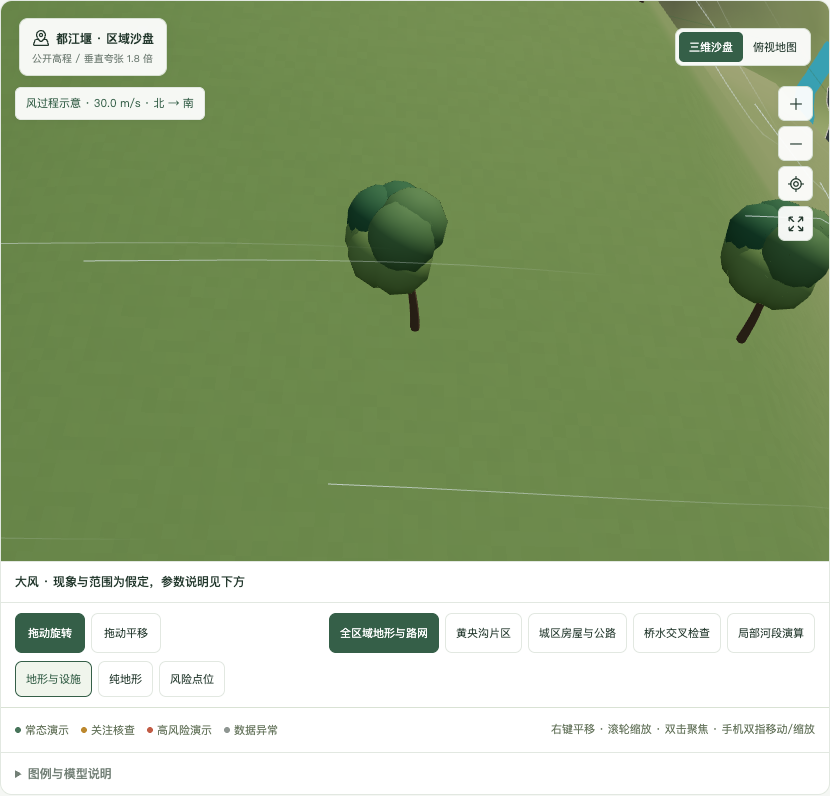
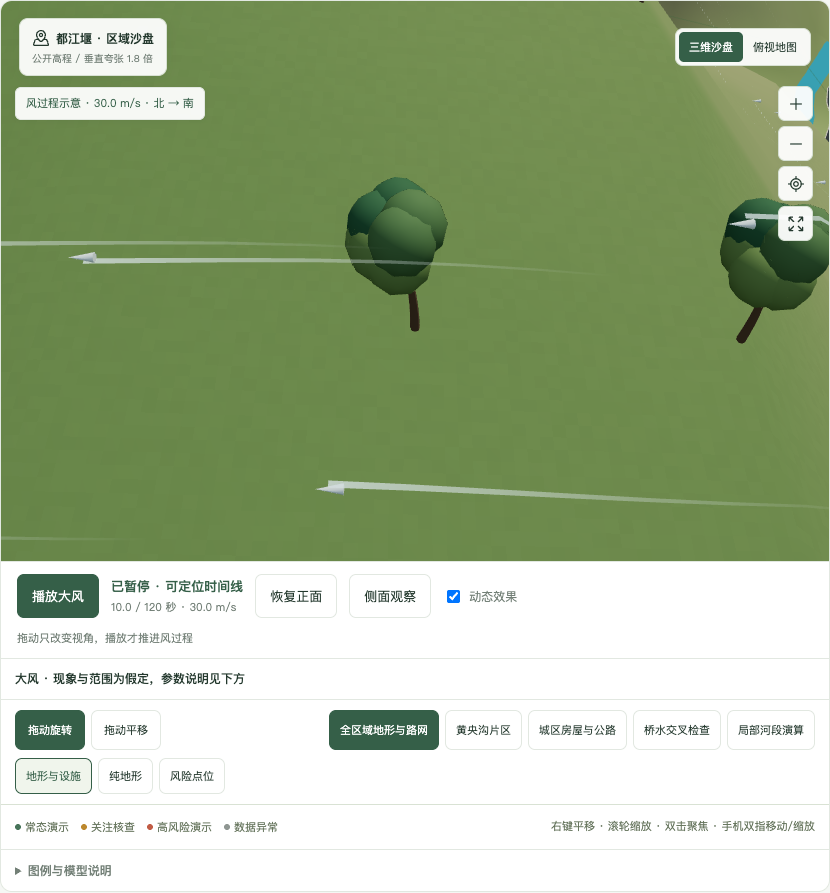
Make wind playback and motion visible from usable viewpoints

diff --git a/src/wind-layer.js b/src/wind-layer.js
@@ -4,7 +4,8 @@ import {flagVertex,treeResponse} from './wind-model.js';
 export function createWindLayer(scene,origin,height,canPlace=()=>true){
  const root=new THREE.Group();root.visible=false;scene.add(root);const flags=[],trees=[],occupied=[];
  const material=color=>new THREE.MeshStandardMaterial({color,roughness:.85,side:THREE.DoubleSide});
- const poleMaterial=material('#889b9a'),clothMaterial=material('#f2bd64'),trunkMaterial=material('#786452');clothMaterial.emissive.set('#f2bd64');clothMaterial.emissiveIntensity=.12;
+ const poleMaterial=material('#889b9a'),clothMaterial=material('#f2bd64'),trunkMaterial=material('#786452');clothMaterial.emissive.set('#f2bd64');clothMaterial.emissiveIntensity=.18;
+ const pixels=new Uint8Array(64*32*4);for(let y=0;y<32;y++)for(let x=0;x<64;x++){const i=(y*64+x)*4,seam=x%16===0||y%8===0,band=x>56;pixels[i]=seam?155:band?255:242;pixels[i+1]=seam?105:band?222:189;pixels[i+2]=seam?47:band?153:100;pixels[i+3]=255;}const clothTexture=new THREE.DataTexture(pixels,64,32);clothTexture.colorSpace=THREE.SRGBColorSpace;clothTexture.needsUpdate=true;clothMaterial.map=clothTexture;clothMaterial.color.set('#ffffff');
  const foliage=['#477456','#62865b','#7b985f'].map(material),crownGeometry=new THREE.IcosahedronGeometry(1,1);
  function site(x,z){for(let ring=0;ring<10;ring++)for(let k=0;k<(ring?12:1);k++){const a=k*Math.PI/6,px=x+ring*.008*Math.cos(a),pz=z+ring*.008*Math.sin(a);if(canPlace(px,pz)&&occupied.every(q=>Math.hypot(q.x-px,q.z-pz)>.013)){const q={x:px,z:pz,y:height(px,pz)};occupied.push(q);return q;}}return null;}
  for(let i=0;i<3;i++){
@@ -19,31 +20,33 @@ export function createWindLayer(scene,origin,height,canPlace=()=>true){
   for(let j=0;j<7;j++){const angle=j*2.399,base={x:Math.cos(angle)*.0013,z:Math.sin(angle)*.0013,y:h-.0018+(j%3)*.001};const leaf=new THREE.Mesh(crownGeometry,foliage[(i+j)%3]);leaf.position.set(base.x,base.y,base.z);leaf.scale.set(.0021,.0024,.0021);tree.add(leaf);crowns.push({leaf,base});}
   trees.push({q,tree,trunk,rest,crowns,h,index:i});
  }
- const count=48,segments=7,geometry=new THREE.BufferGeometry(),positions=new Float32Array(count*segments*6),alphas=new Float32Array(count*segments*2);geometry.setAttribute('position',new THREE.BufferAttribute(positions,3));geometry.setAttribute('opacity',new THREE.BufferAttribute(alphas,1));
- const trails=new THREE.LineSegments(geometry,new THREE.ShaderMaterial({transparent:true,depthWrite:false,uniforms:{tint:{value:new THREE.Color('#d2f0f2')}},vertexShader:'attribute float opacity;varying float alpha;void main(){alpha=opacity;gl_Position=projectionMatrix*modelViewMatrix*vec4(position,1.);}',fragmentShader:'varying float alpha;uniform vec3 tint;void main(){gl_FragColor=vec4(tint,alpha);\n#include <tonemapping_fragment>\n#include <colorspace_fragment>\n}'}));trails.frustumCulled=false;root.add(trails);
+ const count=48,segments=7,geometry=new THREE.BufferGeometry(),positions=new Float32Array(count*segments*18),alphas=new Float32Array(count*segments*6);geometry.setAttribute('position',new THREE.BufferAttribute(positions,3));geometry.setAttribute('opacity',new THREE.BufferAttribute(alphas,1));
+ const trails=new THREE.Mesh(geometry,new THREE.ShaderMaterial({transparent:true,depthWrite:false,side:THREE.DoubleSide,uniforms:{tint:{value:new THREE.Color('#d2f0f2')}},vertexShader:'attribute float opacity;varying float alpha;void main(){alpha=opacity;gl_Position=projectionMatrix*modelViewMatrix*vec4(position,1.);}',fragmentShader:'varying float alpha;uniform vec3 tint;void main(){gl_FragColor=vec4(tint,alpha);\n#include <tonemapping_fragment>\n#include <colorspace_fragment>\n}'}));trails.frustumCulled=false;root.add(trails);
+ const headGeometry=new THREE.ConeGeometry(.00025,.0012,6);headGeometry.rotateX(Math.PI/2);const heads=new THREE.InstancedMesh(headGeometry,material('#e6faff'),count);heads.frustumCulled=false;root.add(heads);const headPose=new THREE.Object3D();
  const span=.18,windSites=occupied.length?occupied:[{...origin,y:height(origin.x,origin.z)}],xs=windSites.map(q=>q.x),zs=windSites.map(q=>q.z),ys=windSites.map(q=>q.y+.012);
  const center={x:(Math.min(...xs)+Math.max(...xs))/2,z:(Math.min(...zs)+Math.max(...zs))/2,y:(Math.min(...ys)+Math.max(...ys))/2};const radius=Math.max(.065,Math.hypot(Math.max(...xs)-Math.min(...xs),Math.max(...ys)-Math.min(...ys),Math.max(...zs)-Math.min(...zs))/2+.018);
  let lastMetrics=null;
  function update(frame,unknown=false,camera=null,viewport=null){
   root.visible=true;const {vector:d}=frame,side={x:-d.z,z:d.x};let flagDelta=0,treeBend=0,pinnedError=0;
   for(const {q,cloth,index} of flags){const p=cloth.geometry.attributes.position,uv=cloth.geometry.attributes.uv;for(let j=0;j<p.count;j++){const u=uv.getX(j),v=1-uv.getY(j),r=flagVertex(u,v,index,frame);p.setXYZ(j,q.x+d.x*r.along+side.x*r.side,q.y+.0096+r.y,q.z+d.z*r.along+side.z*r.side);if(u===0)pinnedError=Math.max(pinnedError,Math.hypot(p.getX(j)-q.x,p.getZ(j)-q.z)*1000);if(u===1)flagDelta=Math.max(flagDelta,Math.hypot(r.along,r.side)*1000);}p.needsUpdate=true;cloth.geometry.computeVertexNormals();cloth.geometry.computeBoundingSphere();cloth.geometry.computeBoundingBox();}
-  for(const item of trees){const r=treeResponse(item.index,frame),p=item.trunk.geometry.attributes.position;treeBend=Math.max(treeBend,r.bend);for(let j=0;j<p.count;j++){const y=item.rest[j*3+1],amount=r.bend*item.h*(y/item.h)**2;p.setXYZ(j,item.rest[j*3]+d.x*amount,y,item.rest[j*3+2]+d.z*amount);}p.needsUpdate=true;item.trunk.geometry.computeVertexNormals();item.trunk.geometry.computeBoundingBox();item.trunk.geometry.computeBoundingSphere();for(const {leaf,base} of item.crowns){const amount=r.bend*item.h*(base.y/item.h)**2;leaf.position.set(base.x+d.x*amount,base.y,base.z+d.z*amount);leaf.rotation.set(d.z*r.bend,0,-d.x*r.bend+r.flutter);}}
+  for(const item of trees){const r=treeResponse(item.index,frame),p=item.trunk.geometry.attributes.position;treeBend=Math.max(treeBend,r.bend);for(let j=0;j<p.count;j++){const y=item.rest[j*3+1],amount=r.bend*item.h*(y/item.h)**2;p.setXYZ(j,item.rest[j*3]+d.x*amount,y,item.rest[j*3+2]+d.z*amount);}p.needsUpdate=true;item.trunk.geometry.computeVertexNormals();item.trunk.geometry.computeBoundingBox();item.trunk.geometry.computeBoundingSphere();for(const [j,{leaf,base}] of item.crowns.entries()){const flutter=frame.strength*.0004*Math.sin(frame.phase*.8+j*1.4+item.index);const amount=r.bend*item.h*(base.y/item.h)**2;leaf.position.set(base.x+d.x*amount+side.x*flutter,base.y+flutter*.35,base.z+d.z*amount+side.z*flutter);leaf.rotation.set(d.z*r.bend,0,-d.x*r.bend+r.flutter);}}
   const visibleCount=frame.active?Math.round(12+36*frame.strength):0,length=.008+frame.strength*.025;let v=0,a=0;
   for(let i=0;i<visibleCount;i++){
     const phase=(i*.61803398875%1)*span,along=((phase+frame.distance/1000)%span+span)%span-span/2,cross=Math.sin(i*12.9898)*.067,fade=Math.min(1,(span/2-Math.abs(along))/.015),altitude=.004+(i%5)*.003;
-    for(let k=0;k<segments;k++)for(const tail of [k,k+1]){const t=tail/segments,forward=along-(1-t)*length,x=center.x+d.x*forward+side.x*cross,z=center.z+d.z*forward+side.z*cross;positions[v++]=x;positions[v++]=height(x,z)+altitude+.0008*Math.sin(t*Math.PI+i);positions[v++]=z;alphas[a++]=fade*t*(.35+.55*frame.strength);}
+    for(let k=0;k<segments;k++)for(const [tail,edge] of [[k,-1],[k+1,-1],[k+1,1],[k,-1],[k+1,1],[k,1]]){const t=tail/segments,forward=along-(1-t)*length,width=(.00008+.00012*frame.strength)*(.3+.7*t),x=center.x+d.x*forward+side.x*(cross+edge*width),z=center.z+d.z*forward+side.z*(cross+edge*width);positions[v++]=x;positions[v++]=height(x,z)+altitude+.0008*Math.sin(t*Math.PI+i);positions[v++]=z;alphas[a++]=fade*t*(.4+.5*frame.strength);}
+    const hx=center.x+d.x*along+side.x*cross,hz=center.z+d.z*along+side.z*cross;headPose.position.set(hx,height(hx,hz)+altitude,hz);headPose.rotation.set(0,Math.atan2(d.x,d.z),0);headPose.scale.setScalar(.65+frame.strength*.65);headPose.updateMatrix();heads.setMatrixAt(i,headPose.matrix);
   }
   const treeTips=trees.map(item=>{let j=0;for(let k=1;k<item.rest.length/3;k++)if(item.rest[k*3+1]>item.rest[j*3+1])j=k;const p=item.trunk.geometry.attributes.position;return {x:(p.getX(j)-item.rest[j*3])*1000,z:(p.getZ(j)-item.rest[j*3+2])*1000};});
   const flagDirections=flags.map(({q,cloth})=>{const p=cloth.geometry.attributes.position,uv=cloth.geometry.attributes.uv;let x=0,z=0,n=0;for(let j=0;j<p.count;j++)if(uv.getX(j)===1){x+=p.getX(j)-q.x;z+=p.getZ(j)-q.z;n++;}return {x:x/n*1000,z:z/n*1000};});
-  geometry.setDrawRange(0,visibleCount*segments*2);geometry.attributes.position.needsUpdate=true;geometry.attributes.opacity.needsUpdate=true;
+  geometry.setDrawRange(0,visibleCount*segments*6);heads.count=visibleCount;heads.instanceMatrix.needsUpdate=true;geometry.attributes.position.needsUpdate=true;geometry.attributes.opacity.needsUpdate=true;
   const signature=JSON.stringify([frame.time,frame.speed,frame.direction,frame.distance]);
-  lastMetrics={visible:true,unknown,time:frame.time,speed:frame.speed,base:frame.base,peak:frame.peak,direction:frame.direction,vector:frame.vector,from:frame.from,toward:frame.toward,distanceMeters:frame.distance,trailCount:visibleCount,flagCount:flags.length,treeCount:trees.length,flagStretchMeters:flagDelta,treeBendRadians:treeBend,roots:trees.map(q=>q.tree.position.toArray()),treeTipsMeters:treeTips,flagDirectionsMeters:flagDirections,flagPinnedErrorMeters:pinnedError,rootsFixed:true,flagEdgesPinned:pinnedError<.003,ended:frame.ended,signature};
+  lastMetrics={visible:true,unknown,time:frame.time,speed:frame.speed,base:frame.base,peak:frame.peak,direction:frame.direction,vector:frame.vector,from:frame.from,toward:frame.toward,distanceMeters:frame.distance,trailCount:visibleCount,flagCount:flags.length,treeCount:trees.length,flagStretchMeters:flagDelta,treeBendRadians:treeBend,roots:trees.map(q=>q.tree.position.toArray()),treeTipsMeters:treeTips,flagDirectionsMeters:flagDirections,flagPinnedErrorMeters:pinnedError,rootsFixed:true,flagEdgesPinned:pinnedError<.003,ended:frame.ended,signature,flagVertices:Array.from(flags[1]?.cloth.geometry.attributes.position.array??[]),treeCrownPositions:trees.flatMap(item=>item.crowns.map(c=>c.leaf.position.toArray())),trailVertices:Array.from(positions.slice(0,Math.min(v,126)))};
   if(camera&&viewport){
-    root.updateMatrixWorld(true);
+    root.updateMatrixWorld(true);const look=camera.position.clone().sub(new THREE.Vector3(flags[1].q.x,flags[1].q.y+.008,flags[1].q.z)).normalize();lastMetrics.flagFaceAlignment=Math.abs(look.x*side.x+look.z*side.z);
     const framing=object=>{const box=new THREE.Box3().setFromObject(object),projected=[];for(const x of [box.min.x,box.max.x])for(const y of [box.min.y,box.max.y])for(const z of [box.min.z,box.max.z])projected.push(new THREE.Vector3(x,y,z).project(camera));return {widthPixels:(Math.max(...projected.map(p=>p.x))-Math.min(...projected.map(p=>p.x)))*viewport.clientWidth/2,heightPixels:(Math.max(...projected.map(p=>p.y))-Math.min(...projected.map(p=>p.y)))*viewport.clientHeight/2,inFrame:projected.every(p=>Math.abs(p.x)<.97&&Math.abs(p.y)<.97&&p.z<1&&p.z>-1)};};
     lastMetrics.flagFraming=flags.map(q=>framing(q.cloth));lastMetrics.treeFraming=trees.map(q=>framing(q.tree));
   }
   window.__windVisual=lastMetrics;return lastMetrics;
  }
- return {bounds:{center,radius,flag:flags[1]?{center:{...flags[1].q,y:flags[1].q.y+.0077},radius:.012}:null,tree:trees[2]?{center:{...trees[2].q,y:trees[2].q.y+.006},radius:.015}:null},update,hide(){root.visible=false;window.__windVisual={visible:false};},dispose(){scene.remove(root);const geometries=new Set(),materials=new Set();root.traverse(o=>{if(o.geometry)geometries.add(o.geometry);for(const m of Array.isArray(o.material)?o.material:[o.material])if(m)materials.add(m);});geometries.forEach(g=>g.dispose());materials.forEach(m=>m.dispose());}};
+ return {bounds:{center,radius,flag:flags[1]?{center:{...flags[1].q,y:flags[1].q.y+.0077},radius:.008}:null,tree:trees[2]?{center:{...trees[2].q,y:trees[2].q.y+.006},radius:.015}:null},update,hide(){root.visible=false;window.__windVisual={visible:false};},dispose(){scene.remove(root);const geometries=new Set(),materials=new Set();root.traverse(o=>{if(o.geometry)geometries.add(o.geometry);for(const m of Array.isArray(o.material)?o.material:[o.material])if(m)materials.add(m);});clothTexture.dispose();geometries.forEach(g=>g.dispose());materials.forEach(m=>m.dispose());}};
 }

diff --git a/src/main.js b/src/main.js
@@ -36,7 +36,7 @@ function render(){for(const h of hazards)assess(state,h.id);const h=selected(),s
  const status=$('#status');status.className=`status-box ${s.unknown?'fault':level===1?'warning':level===2?'danger':''}`;status.innerHTML=`<div class="status-name">${icon(s.unknown?'Unplug':level===0?'CircleCheck':level===1?'TriangleAlert':'ShieldAlert')}${s.unknown?'监测异常 · 需核查':levels[level].name}</div><p>${s.unknown?'模拟数据中断、缺失或过期，当前风险状态未知。修复并核查后恢复。':level===0?'当前演示数值未触发提醒，不代表现实场地安全。':s.action}</p>`;
  $('#slider-title').textContent=h.metric;$('#slider-value').innerHTML=`${formatValue(h,s.value)}<small>${h.unit}</small>`;const slider=$('#value-slider');slider.min=h.min;slider.max=h.max;slider.step=h.step;slider.value=s.value;slider.disabled=s.fault;$('#range-min').textContent=`${h.min} ${h.unit}`;$('#range-max').textContent=`${h.max} ${h.unit}`;
  $('#secondary-title').textContent=h.secondary;$('#secondary-value').innerHTML=`${s.secondary}<small>${h.secondUnit}</small>`;$('#secondary-slider').step=h.id==='water'?.1:1;$('#secondary-slider').max=h.id==='water'?5:100;$('#secondary-slider').value=s.secondary;$('#secondary-slider').disabled=s.fault;$('#secondary-slider').parentElement.querySelector('.range-label').lastElementChild.textContent=h.id==='water'?'5':'100';$('#hazard-note').textContent=h.note;
- $('#fault').classList.toggle('on',s.fault);$('#fault').setAttribute('aria-checked',String(s.fault));$('#play').innerHTML=`${icon(state.running?'Pause':'Play')}<span>${state.running?'暂停模拟':'开始模拟'}</span>`;$('#speed').value=state.speed;
+ $('#play').disabled=false;$('#fault').classList.toggle('on',s.fault);$('#fault').setAttribute('aria-checked',String(s.fault));$('#play').innerHTML=`${icon(state.running?'Pause':'Play')}<span>${state.running?'暂停模拟':'开始模拟'}</span>`;$('#speed').value=state.speed;
  $('#event-count').textContent=`${state.events.length} 条`;$('#events').innerHTML=state.events.length?state.events.slice(0,12).map(e=>`<div class="event"><time>${fmtTime(e.time)}</time><div>${e.text}</div></div>`).join(''):'<div class="empty">尚无状态变化。<br>调整参数或选择情景，观察变化记录。</div>';
  $('.map-note').innerHTML=['ice','wind','heat','forest','landslide','debris'].includes(h.id)?'地形高程 ×1.8 · 现象与范围为假定<br>冰雪附着于公开道路；桥面与净空未实测<br>运动示意独立于监测读数<br>详见下方变量与现象说明':'地形与建筑高度 ×1.8 · 树群为装饰<br>窗格 / 路缘 / 标线为示意；水系贴地，非计算水位<br>色圈为风险提示，非淹没边界';
  $('#view3d').classList.toggle('active',state.mode==='3d');$('#view2d').classList.toggle('active',state.mode==='2d');$('#view3d').setAttribute('aria-pressed',String(state.mode==='3d'));$('#view2d').setAttribute('aria-pressed',String(state.mode==='2d'));updateMapNavigationUI();controlPanel?.render();waterView?.refresh();hydraulicView?.refresh();lightningView?.refresh();hazardEffects?.refresh();createIcons({icons,attrs:{class:'icon'}});renderChart(h,s);save();window.__monitor={state,select:selectHazard,updateValue:(id,v)=>{updateValue(state,id,v);render()},ready:!!scene};}
@@ -44,13 +44,13 @@ function formatValue(h,v){return h.step<1?v.toFixed(1):Math.round(v)}
 function renderChart(h,s){const svg=$('#chart'),width=700,height=145,left=44,right=12,top=10,bottom=25;svg.setAttribute('viewBox',`0 0 ${width} ${height}`);const pts=s.history.length>1?s.history:[...s.history,{t:state.seconds+1,v:s.value}];const minTime=pts[0].t,maxTime=Math.max(minTime+1,pts.at(-1).t);const px=t=>left+(t-minTime)/(maxTime-minTime)*(width-left-right),py=v=>top+(h.max-v)/(h.max-h.min)*(height-top-bottom);const sameTime=pts.at(-1).t===minTime;const pointX=(p,i)=>sameTime?left+i/(pts.length-1)*(width-left-right):px(p.t);const points=pts.map((p,i)=>`${pointX(p,i).toFixed(1)},${py(p.v).toFixed(1)}`).join(' ');const path=`M${points.replaceAll(' ',' L')}`,area=`${path} L${pointX(pts.at(-1),pts.length-1)},${height-bottom} L${left},${height-bottom}Z`;
  let grid='';for(let i=0;i<4;i++){const v=h.min+(h.max-h.min)*i/3,y=py(v);grid+=`<line x1="${left}" x2="${width-right}" y1="${y}" y2="${y}" stroke="#e8ece5"/><text x="${left-9}" y="${y+4}" fill="#7a8576" font-size="10" text-anchor="end">${Math.round(v)}</text>`;}
  const wy=py(s.policy.warning);svg.innerHTML=`<defs><linearGradient id="chart-fill" x1="0" y1="0" x2="0" y2="1"><stop stop-color="${h.color}" stop-opacity=".22"/><stop offset="1" stop-color="${h.color}" stop-opacity=".01"/></linearGradient></defs>${grid}<line x1="${left}" x2="${width-right}" y1="${wy}" y2="${wy}" stroke="#c5994a" stroke-dasharray="4 5" opacity=".7"/><text x="${width-right}" y="${wy-5}" text-anchor="end" fill="#ac873e" font-size="9">演示关注阈值</text><path d="${area}" fill="url(#chart-fill)"/><path d="${path}" fill="none" stroke="${s.unknown?'#909891':h.color}" stroke-width="2.2" stroke-linejoin="round"/><circle cx="${pointX(pts.at(-1),pts.length-1)}" cy="${py(pts.at(-1).v)}" r="3.5" fill="${h.color}" stroke="white" stroke-width="2"/><text x="${left}" y="${height-4}" fill="#7a8576" font-size="10">${fmtTime(minTime)}</text><text x="${width-right}" y="${height-4}" fill="#7a8576" text-anchor="end" font-size="10">${fmtTime(maxTime)}</text>`;$('#chart-title').textContent=`${h.name} · ${h.metric}趋势`;$('#chart-tip').textContent=s.unknown?'数据未知；曲线保留最近有效模拟样本':`最新 ${formatValue(h,s.value)} ${h.unit}（模拟）`;}
-function selectHazard(id){if(id==='water'&&hydraulicView&&!new URLSearchParams(location.search).has('street'))hydraulicView.activate();if(id!=='water'&&hydraulicView?.active)hydraulicView.deactivate();if(!hazards.some(h=>h.id===id))return;state.selected=id;if(id==='lightning'){state.running=false;state.mode='3d';scene?.setMode('3d');scene?.focusLightning?.(state.lightningSession?.config.region??'龙池山地',state.lightningSession?.config.distance??1.2);}if(['ice','wind','heat','forest','landslide','debris'].includes(id)){scene?.focusEffect?.(id);}const h=selected();if(selectedZone!=='全部区域'&&selectedZone!==h.zone){selectedZone='全部区域';document.querySelectorAll('[data-zone]').forEach(b=>b.classList.toggle('active',b.dataset.zone===selectedZone));}render();}
+function selectHazard(id){if(id==='water'&&hydraulicView&&!new URLSearchParams(location.search).has('street'))hydraulicView.activate();if(id!=='water'&&hydraulicView?.active)hydraulicView.deactivate();if(!hazards.some(h=>h.id===id))return;state.selected=id;if(id==='wind')state.running=false;if(id==='lightning'){state.running=false;state.mode='3d';scene?.setMode('3d');scene?.focusLightning?.(state.lightningSession?.config.region??'龙池山地',state.lightningSession?.config.distance??1.2);}if(['ice','wind','heat','forest','landslide','debris'].includes(id)){scene?.focusEffect?.(id);}const h=selected();if(selectedZone!=='全部区域'&&selectedZone!==h.zone){selectedZone='全部区域';document.querySelectorAll('[data-zone]').forEach(b=>b.classList.toggle('active',b.dataset.zone===selectedZone));}render();}
 function toast(text){$('#toast').textContent=text;clearTimeout(toastTimer);toastTimer=setTimeout(()=>$('#toast').textContent='',3500)}
 $('#risklist').addEventListener('click',e=>{const b=e.target.closest('[data-hazard]');if(b)selectHazard(b.dataset.hazard)});
 document.querySelectorAll('[data-zone]').forEach(button=>button.onclick=()=>{selectedZone=button.dataset.zone;document.querySelectorAll('[data-zone]').forEach(b=>b.classList.toggle('active',b===button));if(selectedZone!=='全部区域'&&selected().zone!==selectedZone)state.selected=hazards.find(h=>h.zone===selectedZone).id;render();});
 $('#value-slider').oninput=e=>{updateValue(state,state.selected,+e.target.value);render()};$('#secondary-slider').oninput=e=>{updateNode(state,state.selected,'secondary',+e.target.value);render()};
 document.querySelectorAll('[data-preset]').forEach(button=>button.onclick=()=>{applyPreset(state,state.selected,+button.dataset.preset);render();toast('已应用所选项的演示情景；其他主参数保持不变')});
-$('#play').onclick=()=>{if(state.controlMode==='scenario'&&!state.scenario){toast('请先生成情景');return}if(state.scenario&&state.controlMode==='scenario'&&state.seconds>=state.scenario.duration){toast('已到终点，请回到起点重播');return}state.running=!state.running;render()};$('#speed').onchange=e=>{state.speed=+e.target.value;save()};
+$('#play').onclick=()=>{if(state.selected==='wind'){document.querySelector('#effect-play')?.click();return;}if(state.controlMode==='scenario'&&!state.scenario){toast('请先生成情景');return}if(state.scenario&&state.controlMode==='scenario'&&state.seconds>=state.scenario.duration){toast('已到终点，请回到起点重播');return}state.running=!state.running;render()};$('#speed').onchange=e=>{state.speed=+e.target.value;save()};
 $('#fault').onclick=()=>{updateNode(state,state.selected,'fault',!state.states[state.selected].fault);render()};
 $('#reset').onclick=()=>{state=createState();selectedZone='全部区域';document.querySelectorAll('[data-zone]').forEach(b=>b.classList.toggle('active',b.dataset.zone===selectedZone));scene?.reset();scene?.layer('terrain');document.querySelectorAll('[data-layer]').forEach(b=>b.classList.toggle('active',b.dataset.layer==='terrain'));render();toast('全部模拟已重置')};
 function updateMapNavigationUI(){

diff --git a/src/hazard-effects-view.js b/src/hazard-effects-view.js
@@ -23,6 +23,9 @@ export function mountHazardEffects(getState,getScene,render,toast) {
     <label class="effect-seek-label">效果时间线 · 独立于监测轨迹<input id="effect-seek" type="range" min="0" max="30" step=".1" value="0"></label>
     <p class="effect-validity" id="effect-validity" role="status"></p><p class="control-hint" id="effect-terrain-result"></p><p class="effects-boundary" id="effect-boundary"></p>`;
   document.querySelector('.map-panel').after(panel);const $=q=>panel.querySelector(q);
+  const transport=document.createElement('div');transport.className='wind-map-transport';transport.hidden=true;
+  transport.innerHTML='<button class="btn primary" id="wind-map-play">播放大风</button><div><b id="wind-map-status"></b><small id="wind-map-time"></small></div><button class="btn" data-wind-camera="front">恢复正面</button><button class="btn" data-wind-camera="side">侧面观察</button><label><input type="checkbox" id="wind-map-motion"> 动态效果</label><small id="wind-camera-hint">拖动只改变视角，播放才推进风过程</small>';
+  document.querySelector('#canvas').after(transport);
   let current=null,disposed=false,previous=performance.now(),paint=-1,identity;
   function setup(id) {
     const s=getState();s.effectSettings??={};s.effectPlayback??={};s.effectLastValid??={};
@@ -41,6 +44,9 @@ export function mountHazardEffects(getState,getScene,render,toast) {
   }
   function locate(){const s=getState();s.mode='3d';getScene()?.setMode('3d');getScene()?.focusEffect?.(s.selected);document.querySelector('.map-panel').scrollIntoView({block:'center',behavior:reduced?'auto':'smooth'});render();}
   $('#effect-focus').onclick=locate;
+  transport.querySelector('#wind-map-play').onclick=()=>$('#effect-play').click();
+  transport.querySelector('#wind-map-motion').onchange=e=>{const {c,p}=setup('wind');c.motion=e.target.checked;if(!c.motion)p.running=false;render();};
+  for(const el of transport.querySelectorAll('[data-wind-camera]'))el.onclick=()=>{setup('wind').c.view='flag';getScene()?.focusWindDetail?.('flag',el.dataset.windCamera);render();};
   $('#effect-play').onclick=()=>{
     const id=getState().selected,{n,c,p}=setup(id);if(n.unknown)return;
     if(p.running){p.running=false;render();return;}
@@ -84,7 +90,7 @@ export function mountHazardEffects(getState,getScene,render,toast) {
     $('#effect-readings').innerHTML=snap.notes.map((t,i)=>`<div><span>${['环境与监测','条件与现场','画面解释'][i]}</span><b>${t}</b></div>`).join('');
     $('#effect-legend').innerHTML=snap.legend.map(t=>`<span>${t}</span>`).join('');
     for(const f of effectFields[id]){const el=$('#effect-'+f.key);if(document.activeElement!==el)el.value=c[f.key];el.disabled=n.unknown;}
-    $('#wind-controls').hidden=id!=='wind';
+    $('#wind-controls').hidden=id!=='wind';transport.hidden=id!=='wind';
     if(id==='wind'){
       for(const [kind,value] of [['speed',n.value],['duration',n.secondary],['direction',n.extra.direction]])for(const suffix of ['', '-number']){const el=$('#wind-'+kind+suffix);if(document.activeElement!==el)el.value=value;el.disabled=n.unknown;}
       panel.querySelectorAll('[data-wind-view]').forEach(el=>{const active=el.dataset.windView===c.view;el.classList.toggle('active',active);el.setAttribute('aria-pressed',String(active));});
@@ -92,19 +98,26 @@ export function mountHazardEffects(getState,getScene,render,toast) {
       panel.querySelectorAll('[data-wind-duration],[data-wind-direction]').forEach(el=>el.disabled=n.unknown);
       $('#wind-direction-reading').textContent=`设定来向 ${n.extra.direction}°；当前来自${snap.wind?.from??'—'}方，吹向${snap.wind?.toward??'—'}方`;
       $('#wind-current-speed').textContent=snap.unavailable?'未知':`${snap.wind.speed.toFixed(1)} m/s`;
-      $('#wind-process-status').textContent=snap.unknown?'数据未知 · 冻结最后有效画面':snap.wind.ended?'已结束 · 旗布与树冠回落':p.running?'播放中':p.activated?'已暂停 · 可定位时间线':'尚未启动';
+      $('#wind-process-status').textContent=snap.unknown?'数据未知 · 冻结最后有效画面':!c.motion?'动态已关闭 · 下方可启用':snap.wind.ended?'已结束 · 旗布与树冠回落':p.running?'播放中':p.activated?'已暂停 · 可定位时间线':'尚未启动';
     }
     $('#effect-fields').hidden=!effectFields[id].length||(id==='wind'&&!c.gust);$('#effect-formation-label').hidden=id!=='ice';$('#effect-formation').checked=c.formation;$('#effect-formation').disabled=n.unknown;
-    $('#effect-play').textContent=p.running?'暂停效果':id==='landslide'?'启动滑移示意':id==='debris'?'启动泥流示意':id==='ice'?'播放冰面反光':'播放效果';
+    $('#effect-play').textContent=id==='wind'?(p.running?'暂停大风':'播放大风'):p.running?'暂停效果':id==='landslide'?'启动滑移示意':id==='debris'?'启动泥流示意':id==='ice'?'播放冰面反光':'播放效果';
     $('#effect-play').disabled=n.unknown||!c.motion||snap.duration===0||(id==='ice'&&!snap.ice)||(id==='wind'&&n.value<=0);$('#effect-rewind').disabled=n.unknown;$('#effect-motion').checked=c.motion;$('#effect-speed').value=p.speed;
     $('#effect-seek').max=snap.duration||1;$('#effect-seek').value=p.time;$('#effect-seek').disabled=n.unknown||snap.duration===0;$('#effect-time').textContent=`${p.time.toFixed(1)} / ${snap.duration.toFixed(0)} s`;
     $('#effect-validity').textContent=n.unknown?'数据未知：冻结最后有效示意，不能按正常状态使用。':!getScene()?'正在加载三维效果…':getScene().backend!=='WebGL / Three.js r185'?'当前设备三维渲染不可用，参数与文字解释仍可查看。':p.running?'效果播放中 · 所有参数为模拟':!c.motion?'动态已关闭 · 可拖动时间线查看静态阶段':'静态阶段 · 点击播放或拖动时间线';
     $('#effect-boundary').textContent=boundaries[id];panel.classList.toggle('effects-unknown',n.unknown);
     const layer=window.__hazardLayer;$('#effect-terrain-result').hidden=!['landslide','debris'].includes(id);
     $('#effect-terrain-result').textContent=layer?.id===id?(layer.pathPoints>1?`DEM示意下坡路径 ${layer.pathLengthMeters.toFixed(0)} m${id==='debris'?` · 当前泥流前沿 ${layer.frontMeters.toFixed(1)} m；到达示意路径终点后不再延伸`:''}`:'该点DEM采样未找到连续下坡路径，不伪造运动通道。'):'正在核对示意下坡路径…';
+    if(id==='wind'){
+      const motion=transport.querySelector('#wind-map-motion');motion.checked=c.motion;motion.disabled=n.unknown;const button=transport.querySelector('#wind-map-play');button.textContent=$('#effect-play').textContent;button.disabled=$('#effect-play').disabled;
+      transport.querySelector('#wind-map-status').textContent=$('#wind-process-status').textContent;
+      transport.querySelector('#wind-map-time').textContent=`${p.time.toFixed(1)} / ${snap.duration} 秒 · ${snap.wind?.speed.toFixed(1)??'—'} m/s`;
+      const top=document.querySelector('#play');top.textContent=button.textContent;top.disabled=button.disabled;
+    }
     window.__hazardEffects={...snap,running:p.running};
   }
   function frame(now){if(disposed)return;requestAnimationFrame(frame);const dt=Math.min(.5,(now-previous)/1000);previous=now;const id=getState().selected;if(!effectIds.includes(id)||document.hidden)return;const {n,c,p}=setup(id),wasRunning=p.running;if(p.running&&!n.unknown&&c.motion){const duration=snapshot(id).duration;p.time=Math.min(duration,p.time+dt*p.speed);if(p.time>=duration)p.running=false;}if(wasRunning){const tick=Math.floor(now/200);if(tick!==paint||!p.running){paint=tick;render();}}}
-  requestAnimationFrame(frame);refresh();
-  return {refresh,snapshot,dispose(){disposed=true;panel.remove();}};
+  let hintPaint=0;function cameraHint(now){if(disposed)return;requestAnimationFrame(cameraHint);if(getState().selected!=='wind'||now-hintPaint<200)return;hintPaint=now;const v=window.__windVisual,thin=v?.flagFaceAlignment<.3;transport.querySelector('#wind-camera-hint').textContent=thin?'旗布接近侧视，点击「恢复正面」看布面起伏':'拖动只改变视角，播放才推进风过程';}
+  requestAnimationFrame(cameraHint);requestAnimationFrame(frame);refresh();
+  return {refresh,snapshot,dispose(){disposed=true;panel.remove();transport.remove();}};
 }

diff --git a/tests/browser/water.spec.js b/tests/browser/water.spec.js
@@ -1,5 +1,6 @@
 import {test,expect} from '@playwright/test';
-test.beforeEach(async({page})=>{await page.goto('?street=1');await page.evaluate(()=>localStorage.clear());await page.reload();await expect(page.locator('html')).toHaveAttribute('data-ready','true');});
+test.setTimeout(90000);
+test.beforeEach(async({page})=>{await page.goto('?street=1');await page.evaluate(()=>localStorage.clear());await page.reload();await expect(page.locator('html')).toHaveAttribute('data-ready','true',{timeout:30000});});
 test('积水近景与主输入双向联动，零水深和数据异常正确',async({page})=>{
   const errors=[];page.on('pageerror',e=>errors.push(e.message));page.on('console',m=>{if(m.type()==='error')errors.push(m.text())});
   await expect(page.locator('.water-panel')).toBeVisible();await expect(page.locator('#water-canvas canvas')).toBeVisible();
@@ -9,7 +10,7 @@ test('积水近景与主输入双向联动，零水深和数据异常正确',asy
   }
   await page.locator('#value-number').fill('16');await page.locator('#value-number').dispatchEvent('change');await expect(page.locator('#water-reading')).toHaveText('16 cm');
   await page.locator('#fault').click();await expect(page.locator('#water-validity')).toContainText('数据未知');await expect(page.locator('#water-reading')).toHaveText('16 cm');await expect(page.locator('#water-depth')).toBeDisabled();
-  await page.reload();await expect(page.locator('html')).toHaveAttribute('data-ready','true');await expect(page.locator('#water-reading')).toHaveText('16 cm');await expect(page.locator('#water-validity')).toContainText('数据未知');
+  await page.reload();await expect(page.locator('html')).toHaveAttribute('data-ready','true',{timeout:30000});await expect(page.locator('#water-reading')).toHaveText('16 cm');await expect(page.locator('#water-validity')).toContainText('数据未知');
   await page.locator('#fault').click();await page.locator('#water-animation').uncheck();const before=await page.evaluate(()=>window.__waterView.phase);await page.waitForTimeout(250);expect(await page.evaluate(()=>window.__waterView.phase)).toBe(before);
   await page.locator('[data-hazard="ice"]').click();await expect(page.locator('.water-panel')).toBeHidden();expect(errors).toEqual([]);
 });
@@ -20,6 +21,6 @@ test('模拟降雨开关控制涟漪，手机近景没有水平溢出',async({pa
 });
 test('退水情景与近景联动，暂停保持水深，回放终点无水',async({page})=>{
   await page.locator('[data-water-sample="30"]').click();await page.locator('.track-panel summary').click();await page.locator('#track-enabled').check();await page.locator('#track-target').fill('0');await page.locator('#track-target').press('Tab');await page.locator('#duration').fill('1');await page.locator('#duration').press('Tab');await page.locator('#prepare').click();await page.locator('#seek').fill('30');
-  await expect(page.locator('#water-reading')).toHaveText('15 cm');await expect(page.locator('#water-trend')).toContainText('回落');await page.locator('#play').click();await expect(page.locator('#elapsed')).not.toHaveText('00:30');await page.locator('#play').click();const depth=await page.evaluate(()=>window.__waterView.depth);await page.waitForTimeout(1200);expect(await page.evaluate(()=>window.__waterView.depth)).toBe(depth);
+  await expect(page.locator('#water-reading')).toHaveText('15 cm');await expect(page.locator('#water-trend')).toContainText('回落');await page.locator('#play').click();await expect(page.locator('#elapsed')).not.toHaveText('00:30',{timeout:30000});await page.locator('#play').click();const depth=await page.evaluate(()=>window.__waterView.depth);await page.waitForTimeout(1200);expect(await page.evaluate(()=>window.__waterView.depth)).toBe(depth);
   await page.locator('#seek').fill('60');await expect(page.locator('#water-reading')).toHaveText('0 cm');expect(await page.evaluate(()=>window.__waterView.waterVisible)).toBe(false);
 });

diff --git a/src/style.css b/src/style.css
@@ -37,3 +37,9 @@
 .wind-controls[hidden]{display:none}.wind-controls{padding:18px;background:var(--forest-light);border:1px solid var(--line);border-radius:10px;margin:16px 0}.wind-controls-head{display:flex;align-items:center;justify-content:space-between;gap:12px}.wind-controls-head h3{font-size:15px;margin:0}.wind-controls-head span{font-size:11px;color:var(--muted)}.wind-control-grid{display:grid;gap:16px;margin-top:18px}.wind-control-grid label{font-size:12px;line-height:1.8}.wind-control-grid label>div{display:grid;grid-template-columns:1fr 90px;align-items:center;gap:14px;margin-top:5px}.wind-control-grid input[type=range]{width:100%;accent-color:var(--forest)}.wind-control-grid input[type=number]{width:90px;min-height:40px;padding:8px;border:1px solid var(--line);border-radius:6px;background:var(--surface)}.wind-quick{display:flex;gap:6px;align-items:center;flex-wrap:wrap;margin-top:6px;font-size:10px;color:var(--muted)}.wind-quick button{padding:6px 10px;font-size:11px}.wind-gust-toggle{display:flex;gap:8px;align-items:center;margin-top:18px;font-size:12px}.wind-now{display:flex;align-items:baseline;gap:12px;flex-wrap:wrap;margin-top:14px}.wind-now span,.wind-now small,#wind-direction-reading{font-size:11px;color:var(--muted)}.wind-now b{font-size:24px;color:var(--forest);font-variant-numeric:tabular-nums}.wind-layout .rightpanel .control{display:none}.wind-layout .rightpanel label:has([data-key="direction"]){display:none}.wind-layout .map-note{display:none}@media(max-width:640px){.wind-controls{padding:14px}.wind-controls-head{display:block}.wind-control-grid label>div{grid-template-columns:1fr 76px;gap:8px}.wind-control-grid input[type=number]{width:76px}.wind-quick button{min-height:40px}}
 
 .wind-view-buttons{display:flex;flex-wrap:wrap;gap:8px;margin:12px 0}.wind-view-buttons button{padding:8px 12px;font-size:11px;min-height:40px}.wind-view-buttons button.active{background:var(--forest);color:white;border-color:var(--forest)}
+
+.wind-map-transport[hidden]{display:none}.wind-map-transport{display:flex;align-items:center;gap:12px;flex-wrap:wrap;padding:12px 16px;background:var(--surface);border-top:1px solid var(--line)}.wind-map-transport div{display:grid;gap:4px}.wind-map-transport b{color:var(--forest);font-size:13px}.wind-map-transport small{color:var(--muted);font-size:11px;font-variant-numeric:tabular-nums}.wind-map-transport>small{flex-basis:100%}.wind-map-transport button{min-height:44px}@media(max-width:640px){.wind-map-transport{gap:8px;padding:12px}.wind-map-transport>div{flex:1}.wind-map-transport>button:not(.primary){flex:1}}
+
+.wind-layout .toggle-row:has(#speed){display:none}
+
+.wind-map-transport>label{display:flex;align-items:center;gap:6px;color:var(--muted);font-size:12px;min-height:44px}@media(max-width:640px){.wind-map-transport{display:grid;grid-template-columns:1fr 1fr}.wind-map-transport>div{min-width:0;line-height:1.6}.wind-map-transport>small{grid-column:1/-1}.wind-map-transport>label{grid-column:1/-1}}

diff --git a/src/scene.js b/src/scene.js
@@ -142,7 +142,7 @@ export async function createScene(container,getState,onSelect){
  function appearance(mode){const command=mode==='2d';renderer.setClearColor(command?'#12252c':'#e9efdf');scene.fog.color.set(command?'#12252c':'#e9efdf');floor.material.color.set(command?'#12252c':'#e9efdf');geom.setAttribute('color',new THREE.Float32BufferAttribute(command?commandColors:colors,3));contours.material.color.set(command?'#789784':'#456847');contours.material.opacity=command?.42:.25;for(const mesh of buildings.children)if(mesh.material)mesh.material.color.set(command?'#658980':'#ffffff');landCover.visible=!command;forest.visible=!command;sun.castShadow=!command;terrainMaterial.flatShading=false;terrainMaterial.needsUpdate=true;container.closest('.map-panel').classList.toggle('command',command);}
  function clearView(center,radius,y,preferred=null){
   controls.target.set(center.x,y,center.z);
-  const span=Math.max(.012,radius),clearance=Math.min(.025,Math.max(.0005,span*.08)),fit=span/Math.sin(camera.fov*Math.PI/360)*1.16/Math.min(1,camera.aspect);
+  const span=Math.max(.008,radius),clearance=Math.min(.025,Math.max(.0005,span*.08)),fit=span/Math.sin(camera.fov*Math.PI/360)*1.16/Math.min(1,camera.aspect);
   if(getState().mode==='2d'){camera.position.copy(controls.target).add(new THREE.Vector3(0,fit,.001));}
   else {
    let best=null;const horizontal=fit*.56;
@@ -153,9 +153,9 @@ export async function createScene(container,getState,onSelect){
    camera.position.copy(controls.target).add(new THREE.Vector3(best.dx,best.rise,best.dz));
   }controls.update();
  }
- function focusWindDetail(kind='flag'){
+ function focusWindDetail(kind='flag',angle='front'){
   const all=hazardLayer.windBounds,view=kind==='field'?all:all[kind]??all,direction=getState().states.wind.extra.direction*Math.PI/180;
-  clearView(view.center,view.radius,view.center.y,kind==='flag'?Math.atan2(-Math.sin(direction),-Math.cos(direction)):null);
+  clearView(view.center,view.radius,view.center.y,kind==='flag'?Math.atan2(-Math.sin(direction),-Math.cos(direction))+(angle==='side'?Math.PI/2:0):null);
  }
  function focusEffect(id){
   reviewingBridge=false;const item=hazards.find(h=>h.id===id);if(!item)return;const origin=project(item.lon,item.lat,b);let q={...origin},radius={ice:.17,wind:.22,heat:.22,forest:.24,landslide:.16,debris:.11}[id]??.2;

diff --git a/src/wind-model.js b/src/wind-model.js
@@ -42,7 +42,7 @@ export function windFrame(n,c,time=0,activated=false,history=null){
 }
 export function flagVertex(u,v,index,frame){
  const s=frame.strength,stretch=.10+.90*Math.sqrt(s),wave=s*(.00055+.00025*Math.sin(frame.phase*.4+index)),normal=wave*Math.sin(u*9-frame.phase*2+v*2+index)*u;
- return {along:.006*u*stretch,side:normal+(1-s)*.00012*Math.sin(u*7+v*3)*u,y:-.003*v-.0022*(1-s)*u*u};
+ return {along:.006*u*stretch,side:normal+(1-s)*.00012*Math.sin(u*7+v*3)*u,y:-.003*v-.0022*(1-s)*u*u+s*.00065*u*u*Math.sin(u*7-frame.phase*1.7+index+v)};
 }
 export function treeResponse(index,frame){
  const s=frame.strength,osc=.78+.22*Math.sin(frame.phase*.65+index*1.9);return {bend:s*.22*osc,flutter:s*.045*Math.sin(frame.phase*1.2+index*2.7)};

diff --git a/docs/wind-acceptance.md b/docs/wind-acceptance.md
@@ -15,7 +15,7 @@
 
 连续渐隐风迹、固定旗杆与旗布一边的网格变形、固定树干基部的上部和树冠响应。来向表示风从哪里来，北风吹向南、东风吹向西。风迹位移按模拟风速积分，轨迹沿地形背景表达方向；旗布和树冠响应系数为人为视觉映射。
 
-默认旗布近景，并提供树冠近景和全场景。近景隐藏会挡住对象的风险球标记，保留侧栏读数和状态。对象位置及尺寸为示意，并避让已收录道路和水面；不能视为真实设备或树木清单。
+默认旗布近景，并提供树冠近景和全场景。顶部、地图旁与下方的「播放大风」共用同一个效果时间线；选择大风会暂停监测时钟，避免两个时钟同时推进。地图旁显示状态、模拟时间与当前风速，并提供恢复正面与侧面观察。侧视夹角接近布面时提示恢复正面，不强制锁定用户的镜头。旗布有布面网格和自由边缘上下起伏，风迹有移动头部，树冠分簇摆动。近景隐藏会挡住对象的风险球标记，保留侧栏读数和状态。对象位置及尺寸为示意，并避让已收录道路和水面；不能视为真实设备或树木清单。
 
 ## 验收矩阵
 
@@ -28,6 +28,8 @@
 | 固定约束 | 旗布靠杆边缘误差<3mm（渲染坐标检查，不是测绘精度），树根坐标不变 | 单元 + 浏览器 |
 | 暂停回放 | 暂停签名不变；同一参数、历史与时刻得到同一过程 | 单元 + 浏览器 |
 | 变更与结束 | 播放中两秒过渡；缩短时间正确裁限；结束不清除输入或松动巡查记录 | 单元 + 浏览器 |
+| 连续运动 | 固定镜头下10秒与10.7秒布面、树冠实际顶点与主体像素变化；暂停顶点不变，恢复后时间推进；正侧视可切换 | 浏览器连续阶段 + 截图复查 |
+| 播放入口 | 顶部、地图旁和下方共用播放状态，监测时钟不被启动 | 浏览器 |
 | 可辨认 | 强风旗布近景：桌面宽度>40像素且在画面内，手机宽度>16像素；树冠桌面近景高度>45像素 | 实际相机投影 + 截图复查 |
 | 数据未知 | 冻结最后有效画面，播放和输入禁用 | 浏览器 |
 | 窄屏与减少动态 | 390×844不溢出；减少动态默认关闭播放，但时间线仍能查看静态阶段 | 浏览器 |

diff --git a/README.md b/README.md
@@ -213,7 +213,7 @@ assets/         真实运行截图
 
 ## 大风控制与验收
 
-打开 `?risk=wind`，使用大风面板控制基础风速、模拟秒数与来向，按需启用假定阵风。点击「播放效果」，或拖动时间线查看固定阶段。「旗布近景」「树冠近景」「全场景」用于检查不同响应。暂停冻结，1/3/5/10倍只改变播放速度；到时停止且对象回落。风险状态与巡查记录不因动画结束而清除。
+打开 `?risk=wind`，使用大风面板控制基础风速、模拟秒数与来向，按需启用假定阵风。顶部、地图旁和下方「播放大风」控制同一过程，或拖动时间线查看固定阶段。地图旁显示状态、时间和当前风速，可恢复正面或切到侧面观察；拖动镜头本身不推进过程。「旗布近景」「树冠近景」「全场景」用于检查不同响应。暂停冻结，1/3/5/10倍只改变播放速度；到时停止且对象回落。风险状态与巡查记录不因动画结束而清除。
 
 模型使用确定性脉冲、按时间积分的风迹、固定边缘旗布网格和固定树干基部的摆动。风向调整在播放中用2秒过渡，暂停时即时更新；记录本次过程以便拖动检查，回到起点使用当前设置重播。不能解读为真实风场、材料受力、树木折断或倒塌预测。完整[完成标准与验收矩阵](docs/wind-acceptance.md)。
 
